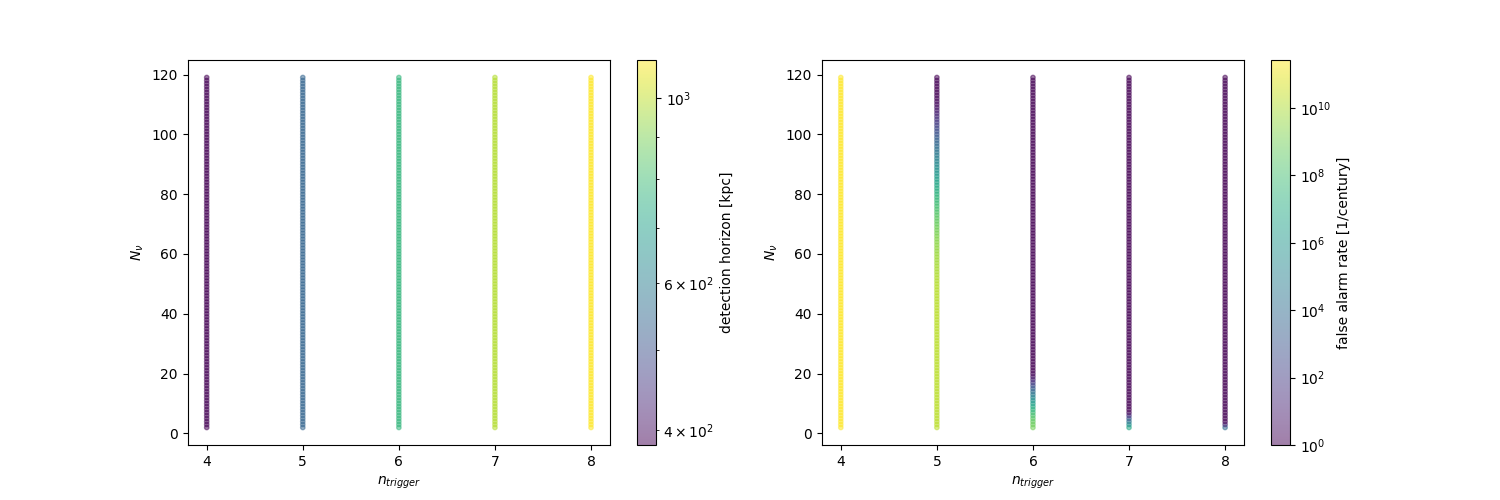
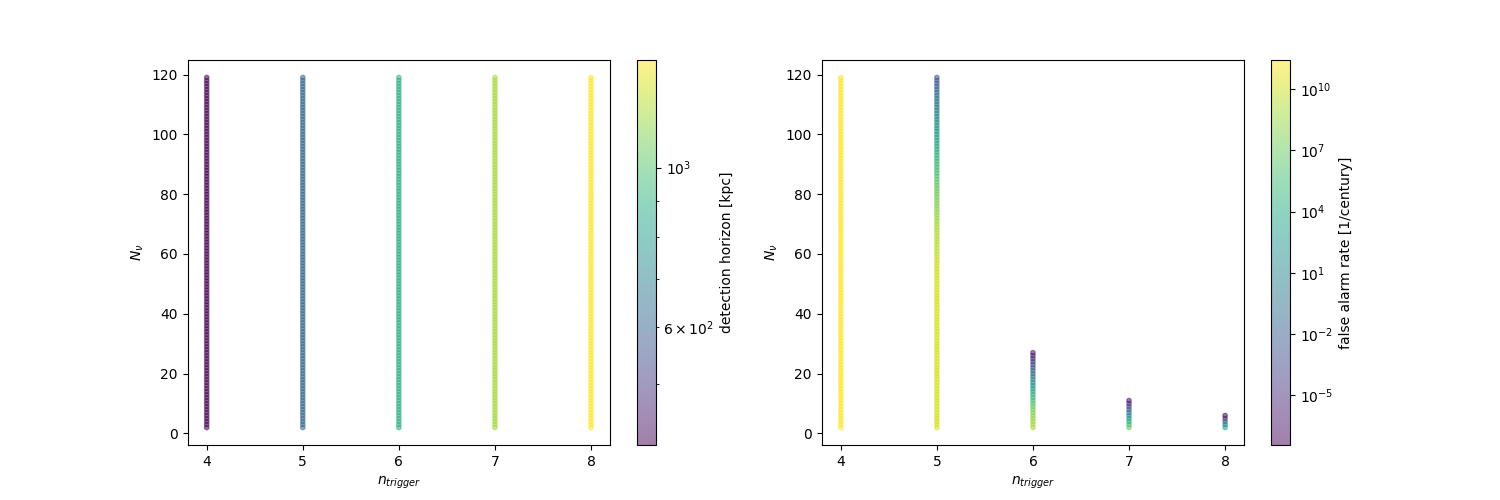
added plotting module, grid scan data stored in pkl files for later use

diff --git a/main.py b/main.py
@@ -1,35 +1,9 @@
-from cProfile import label
+from copyreg import pickle
 import globals
 from sensors import *
 from scipy.optimize import brute
-import matplotlib.pyplot as plt
-from matplotlib.colors import LogNorm
-
-def grid_plot(x,y,detection_horizon, false_alarm_rate):
-
-    loss = np.sqrt(1/detection_horizon**2 + globals.fit_weight_OR * (globals.DES_false_alarm_rate_comb - false_alarm_rate)**2)
-
-    mask = np.where(loss == loss.min())
-
-    fig, ax = plt.subplots(1,2, figsize = (15,5))
-
-    xx, yy = np.meshgrid(x,y)
-    clp = ax[0].scatter(xx, yy, c = detection_horizon.T, s = 10, marker = 'o', alpha = 0.5, cmap = 'viridis', norm=LogNorm())
-    ax[0].plot(xx[mask], yy[mask], detection_horizon.T[mask], s = 10, marker = 'o', color = 'red')
-    ax[0].set_xlabel(r'$n_{trigger}$')
-    ax[0].set_ylabel(r'$N_{\nu}$')
-    ax[0].set_xticks(x)
-    clb = plt.colorbar(clp, ax=ax[0])
-    clb.set_label('detection horizon [kpc]', fontsize = 10)
-    clp = ax[1].scatter(xx, yy, c = 100*false_alarm_rate.T, s = 10, marker = 'o', alpha = 0.5, cmap = 'viridis', norm=LogNorm())
-    ax[1].plot(xx[mask], yy[mask], false_alarm_rate.T[mask], s = 10, marker = 'o', color = 'red')
-    ax[1].set_xlabel(r'$n_{trigger}$')
-    ax[1].set_ylabel(r'$N_{\nu}$')
-    ax[1].set_xticks(x)
-    clb = plt.colorbar(clp, ax=ax[1])
-    clb.set_label('false alarm rate [1/century]', fontsize = 10)
-
-    return fig, ax
+from plthelper import *
+import pickle
 
 
 
@@ -56,7 +30,7 @@ def MDOM_optimise(input):
 
 if __name__ == "__main__": 
     globals.initialize()
-    type = "AND" # "AND", "OR", "MDOM"
+    type = "OR" #"AND", "OR", "MDOM"
 
     if type == "AND":
         optimise = AND_optimise
@@ -67,6 +41,7 @@ if __name__ == "__main__":
     elif type == "MDOM":
         optimise = MDOM_optimise
         DETECTOR = MDOM
+
     '''
     pmt_range = np.arange(4,9,1)
     modules_range = np.arange(2,120,1)
@@ -80,68 +55,67 @@ if __name__ == "__main__":
             detection_horizon[i,j] = detector.detection_horizon()
             false_alarm_rate[i,j] = detector.false_alarm_rate()
 
+    data = pmt_range, modules_range, detection_horizon, false_alarm_rate
+    file = open('data_' + type + '.pkl', 'wb')
+    pickle.dump(data, file)
+    file.close()
+    '''
+    
+    file = open('data_' + type + '.pkl', 'rb')
+    data = pickle.load(file)
+    pmt_range, modules_range, detection_horizon, false_alarm_rate = data
+    file.close()
+
     fig, ax = grid_plot(pmt_range, modules_range, detection_horizon, false_alarm_rate)
     plt.savefig('grid_scan_'+type+'.png') 
     plt.show()  
-    plt.close(fig)        
-    '''
+    plt.close(fig)
 
+    fig, ax = contour_plot(pmt_range, modules_range, detection_horizon, false_alarm_rate)
+    plt.savefig('contour_'+type+'.png') 
+    plt.show()  
+    plt.close(fig)        
     
+    a = 1/0
+    '''
     slices = (slice(4,9,1), slice(2,120,1))
     res = brute(optimise, ranges = slices, disp=True, finish=None, full_output=True)
     opt_trigger_number_of_PMTs, opt_trigger_number_of_modules = res[0].astype(int)
-    
     '''
+    
     if type == 'AND':
         opt_trigger_number_of_PMTs, opt_trigger_number_of_modules = 6, 19
     elif type == 'OR':
-        opt_trigger_number_of_PMTs, opt_trigger_number_of_modules = 6, 17
-    '''
-    detector = DETECTOR('mDOM', 'wls', opt_trigger_number_of_PMTs, opt_trigger_number_of_modules)
+        opt_trigger_number_of_PMTs, opt_trigger_number_of_modules = 8, 7
+    
+    if type == 'MDOM':
+        detector = DETECTOR('mDOM', opt_trigger_number_of_PMTs, opt_trigger_number_of_modules)
+    else:
+        detector = DETECTOR('mDOM', 'wls', opt_trigger_number_of_PMTs, opt_trigger_number_of_modules)
+    
 
     print('Optimised trigger condition for '+type+' type: [{:.0f}, {:.0f}]'.format(opt_trigger_number_of_PMTs, opt_trigger_number_of_modules))
     print('-----------------------------------------------------')
     print('False SN alarm rate: {:.4f}/year --> 1 false alarm every {:.1f} years'.format(detector.false_alarm_rate(), 1/detector.false_alarm_rate()))
     print('50% SN detection horizon: {:.1f} kpc'.format(detector.detection_horizon()))
+    
+    mdom = MDOM('mDOM', opt_trigger_number_of_PMTs, opt_trigger_number_of_modules)
+    wls = WLS('WLS')
 
-    fig, axs = plt.subplots(1,2, figsize = (8,4))
-    ax1 = axs[0]
-    ax2 = axs[1]
-
-    distance = np.linspace(5, 1500, 1000)
-
-    Z_mDOM = MDOM('mDOM', opt_trigger_number_of_PMTs, opt_trigger_number_of_modules).significance(distance)
-    Z_WLS = WLS('WOM-Trap').significance(distance)
-
-    P_SN_mDOM = MDOM('mDOM', opt_trigger_number_of_PMTs, opt_trigger_number_of_modules).detection_probability(distance)
-    P_SN_WLS = WLS('WOM-Trap').detection_probability(distance)
-
-    P_SN_comb = np.zeros_like(distance)
-    Z_comb = np.zeros_like(distance)
-    for i,dd in enumerate(distance):
-        P_SN_comb[i] = detector.detection_probability(dd)
-        Z_comb[i] = detector.significance(dd)
-
-    ax1.plot(distance, Z_mDOM, label = "mDOM", color = 'grey', ls = ':')
-    ax1.plot(distance, Z_WLS, label = "WLS", color = 'grey', ls = '--')
-    ax1.plot(distance, Z_comb, label = "WOM-Trap", color = 'black', ls = '-')
-    ax2.plot(distance, P_SN_mDOM, label = "mDOM", color = 'grey', ls = ':')
-    ax2.plot(distance, P_SN_WLS, label = "WLS", color = 'grey', ls = '--')
-    ax2.plot(distance, P_SN_comb, label = "WOM-Trap", color = 'black', ls = '-')
-
-    ax1.set_xlabel("Distance d [kpc]")
-    ax1.set_ylabel("Significance Z")
-    ax1.set_yscale("log")
-    ax2.set_xlabel("Distance d [kpc]")
-    ax2.set_ylabel(r"SN detection probability $P_{SN}$")
-    ax1.legend()
-    ax2.legend()
+    fig, axs = result_plot(mdom, wls, detector)
     plt.tight_layout()
-    plt.savefig('opt_distance_'+type+'.png')
+    #plt.savefig('opt_distance_'+type+'.png')
     plt.show()
+    
+    a = 1/0
 
 '''
 RESULTS:
+
+Optimised trigger condition for MDOM type: [7, 7]
+-----------------------------------------------------
+False SN alarm rate: 0.0103/year --> 1 false alarm every 97.5 years
+50% SN detection horizon: 268.3 kpc
 
 Optimised trigger condition for AND type: [6, 19]
 -----------------------------------------------------

diff --git a/plthelper.py b/plthelper.py
@@ -1,0 +1,86 @@
+import matplotlib.pyplot as plt
+from matplotlib.colors import LogNorm
+import numpy as np
+from sensors import *
+
+def grid_plot(pmt_range, modules_range, detection_horizon, false_alarm_rate):
+
+    loss = np.sqrt(1/detection_horizon**2 + globals.fit_weight_OR * (globals.DES_false_alarm_rate_comb - false_alarm_rate)**2)
+
+    fig, ax = plt.subplots(1,2, figsize = (15,5))
+
+    xx, yy = np.meshgrid(pmt_range, modules_range)
+    clp = ax[0].scatter(xx, yy, c = detection_horizon.T, s = 10, marker = 'o', alpha = 0.5, cmap = 'viridis', norm=LogNorm())
+    ax[0].set_xlabel(r'$n_{trigger}$')
+    ax[0].set_ylabel(r'$N_{\nu}$')
+    ax[0].set_xticks(pmt_range)
+    clb = plt.colorbar(clp, ax=ax[0])
+    clb.set_label('detection horizon [kpc]', fontsize = 10)
+    clp = ax[1].scatter(xx, yy, c = 100*false_alarm_rate.T, s = 10, marker = 'o', alpha = 0.5, cmap = 'viridis', norm=LogNorm())
+    ax[1].set_xlabel(r'$n_{trigger}$')
+    ax[1].set_ylabel(r'$N_{\nu}$')
+    ax[1].set_xticks(pmt_range)
+    clb = plt.colorbar(clp, ax=ax[1])
+    clb.set_label('false alarm rate [1/century]', fontsize = 10)
+    plt.tight_layout()
+
+
+    return fig, ax
+
+def contour_plot(pmt_range, modules_range, detection_horizon, false_alarm_rate):
+
+    fig, ax = plt.subplots(1,2, figsize = (15,5))
+    ind = int(len(modules_range)/2)
+
+    for j in range(len(pmt_range)):
+        ax[0].plot(modules_range, detection_horizon[j,:], 'o-', ms = 5, alpha = 0.5, label = r"$n_{trigger}$"+" = {:.0f}".format(pmt_range[j]))
+        ax[0].set_xlabel('number of modules')
+        ax[0].set_ylabel(r'detection horizon $d_{50\%}$')
+        ax[0].set_yscale('log')
+        ax[0].legend()
+        ax[1].plot(modules_range, 100*false_alarm_rate[j,:], 'o-', ms = 5, alpha = 0.5, label = r"$n_{trigger}$"+" = {:.0f}".format(pmt_range[j]))
+        ax[1].set_xlabel('number of modules')
+        ax[1].set_ylabel(r'false alarm rate [1/century]')
+        ax[1].set_yscale('log')
+        ax[1].legend()
+        plt.tight_layout()
+
+    return fig, ax
+
+def result_plot(mdom, wls, detector):
+
+    fig, axs = plt.subplots(1,2, figsize = (8,4))
+    ax1 = axs[0]
+    ax2 = axs[1]
+
+    distance = np.linspace(5, 1500, 1000)
+
+    Z_mDOM = mdom.significance(distance)
+    Z_WLS = wls.significance(distance)
+
+    P_SN_mDOM = mdom.detection_probability(distance)
+    P_SN_WLS = wls.detection_probability(distance)
+
+    P_SN_comb = np.zeros_like(distance)
+    Z_comb = np.zeros_like(distance)
+    for i,dd in enumerate(distance):
+        P_SN_comb[i] = detector.detection_probability(dd)
+        Z_comb[i] = detector.significance(dd)
+
+    ax1.plot(distance, Z_mDOM, label = "mDOM", color = 'grey', ls = ':')
+    ax1.plot(distance, Z_WLS, label = "WLS", color = 'grey', ls = '--')
+    ax1.plot(distance, Z_comb, label = "WOM-Trap", color = 'black', ls = '-')
+    ax2.plot(distance, P_SN_mDOM, label = "mDOM", color = 'grey', ls = ':')
+    ax2.plot(distance, P_SN_WLS, label = "WLS", color = 'grey', ls = '--')
+    ax2.plot(distance, P_SN_comb, label = "WOM-Trap", color = 'black', ls = '-')
+
+    ax1.set_xlabel("Distance d [kpc]")
+    ax1.set_ylabel("Significance Z")
+    ax1.set_yscale("log")
+    ax2.set_xlabel("Distance d [kpc]")
+    ax2.set_ylabel(r"SN detection probability $P_{SN}$")
+    ax1.legend()
+    ax2.legend()
+    plt.tight_layout()
+
+    return fig, axs

diff --git a/sensors.py b/sensors.py
@@ -76,7 +76,8 @@ class WLS(Sensor):
         return significance_to_probability(self.significance(distance))
 
     def false_detection_probability(self):
-        return globals.DES_false_alarm_rate_WLS/(year*self.noise_rate)
+        #return globals.DES_false_alarm_rate_wls/(year*self.noise_rate)
+        return np.sqrt(globals.DES_false_alarm_rate_comb)/(year*self.noise_rate)
 
     def false_alarm_rate(self):
         return self.false_detection_probability()*year*self.noise_rate
@@ -143,13 +144,14 @@ class OR(object):
         self.WLS = wls 
 
     def significance(self, distance):
-        return stouffer([self.MDOM.significance(distance), self.WLS.significance(distance)], [1,1])
+        #return stouffer([self.MDOM.significance(distance), self.WLS.significance(distance)], [1,1])
+        return stouffer([self.MDOM.significance(distance), 0], [1,0])
 
     def detection_probability(self, distance):
         return significance_to_probability(self.significance(distance))
 
     def false_alarm_rate(self):
-        return self.MDOM.false_alarm_rate() + self.WLS.false_alarm_rate()
+        return self.MDOM.false_alarm_rate()# + self.WLS.false_alarm_rate()
 
     def detection_horizon(self):
         thresh = 1E-3

diff --git a/globals.py b/globals.py
@@ -8,7 +8,7 @@ def initialize():
 
     fit_weight_mDOM = 1
     fit_weight_AND = 1E-2
-    fit_weight_OR = 1E-1
+    fit_weight_OR = 1E0
     DES_false_alarm_rate_comb = 0.01 # desired combined false alarm rate
     DES_false_alarm_rate_mDOM = 0.01 # desired mDOM false alarm rate
     DES_false_alarm_rate_WLS = 0.01 # desired WLS false alarm rate
